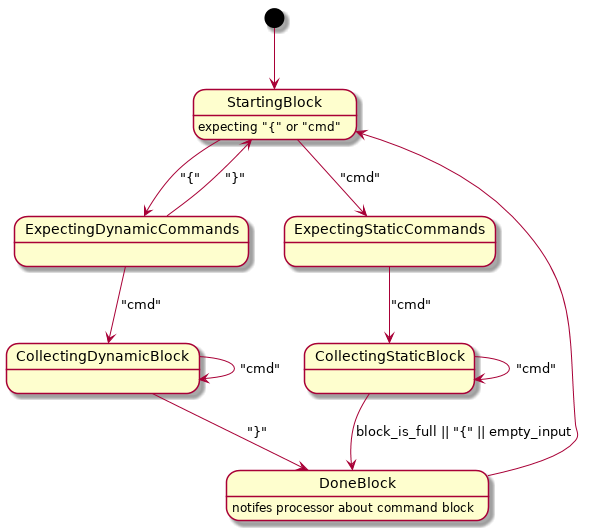
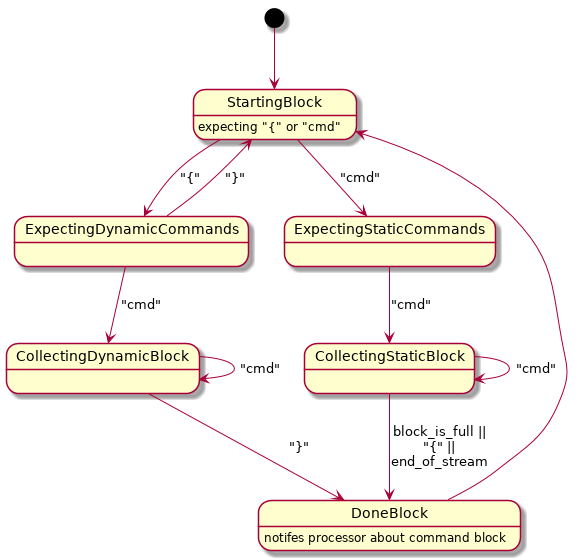
create file on update instead of create. use end_of_stream() instead of empty string to notify SM about end of stream

Changed region(s): [[0.0, 0.0, 0.9914, 0.9962], [0.4957, 0.7849, 0.5267, 0.8151]]

diff --git a/parserstate.h b/parserstate.h
@@ -25,6 +25,7 @@ class ParserState
 
         const std::string& name() const { return name_; }
         virtual Result handle(Parser* ctx, const std::string& input) = 0;
+        virtual Result end_of_stream(Parser*) { return Result::Stop; };
 
         template<typename T>
         static ParserState* create() { return new T; }
@@ -73,6 +74,7 @@ class CollectingStaticBlock : public ParserState
         CollectingStaticBlock() : ParserState(__func__) {}
 
         Result handle(Parser* ctx, const std::string& input) override;
+        Result end_of_stream(Parser* ctx) override;
 };
 
 class DoneBlock : public ParserState

diff --git a/observers.h b/observers.h
@@ -50,20 +50,17 @@ class FileWriter : public AbstractWriter
 {
     public:
         FileWriter(const std::string& filename)
-            : file_(filename) {}
-
-        ~FileWriter()
-        {
-            file_.close();
-        }
+            : filename_(filename) {}
 
         void write(const std::string& data) override
         {
-            file_ << data;
+            std::ofstream file(filename_);
+            file << data;
+            file.close();
         }
 
     private:
-        std::ofstream file_;
+        std::string filename_;
 };
 
 using GlobalConsoleWriter = Singleton<ConsoleWriter>;

diff --git a/parserstate.cpp b/parserstate.cpp
@@ -84,11 +84,13 @@ ParserState::Result CollectingStaticBlock::handle(Parser* ctx,
         ctx->set_state(ParserState::create<DoneBlock>());
         return Result::Continue;
     }
-    if (input.empty()) {
-        ctx->set_state(ParserState::create<DoneBlock>());
-        return Result::Continue;
-    }
     return Result::Stop;
+}
+
+ParserState::Result CollectingStaticBlock::end_of_stream(Parser* ctx)
+{
+    ctx->set_state(ParserState::create<DoneBlock>());
+    return Result::Continue;
 }
 
 ParserState::Result DoneBlock::handle(Parser* ctx,

diff --git a/parser.cpp b/parser.cpp
@@ -24,6 +24,13 @@ void Parser::handle_token(const std::string& token)
     while (state_->handle(this, token) == ParserState::Result::Continue) {}
 }
 
+void Parser::end_of_stream()
+{
+    if (state_->end_of_stream(this) == ParserState::Result::Continue) {
+        while (state_->handle(this, "") == ParserState::Result::Continue) {}
+    }
+}
+
 void Parser::set_state(ParserState* state)
 {
 //    LOG() << "from state: " << state_->name();

diff --git a/main.cpp b/main.cpp
@@ -16,7 +16,7 @@ int main(int argc, char const** argv)
         for (std::string input; std::getline(std::cin, input);) {
             processor.add_token(input);
         }
-        processor.add_token("");
+        processor.end_of_stream();
     }
     catch(const std::exception &e) {
         std::cerr << e.what() << std::endl;

diff --git a/processor.h b/processor.h
@@ -21,6 +21,7 @@ class Processor
         ~Processor();
 
         virtual void add_token(const std::string& input);
+        virtual void end_of_stream();
         virtual void run();
         virtual void add_command(const std::string& input);
         virtual bool block_complete() const;

diff --git a/parser.h b/parser.h
@@ -13,6 +13,7 @@ class Parser
         ~Parser();
 
         void handle_token(const std::string& token);
+        void end_of_stream();
 
         const expr_t& open_kw() const { return open_kw_; }
         const expr_t& close_kw() const { return close_kw_; }

diff --git a/processor.cpp b/processor.cpp
@@ -22,6 +22,11 @@ void Processor::add_token(const std::string& input)
     parser_.handle_token(input);
 }
 
+void Processor::end_of_stream()
+{
+    parser_.end_of_stream();
+}
+
 void Processor::run()
 {
     std::stringstream ss;
